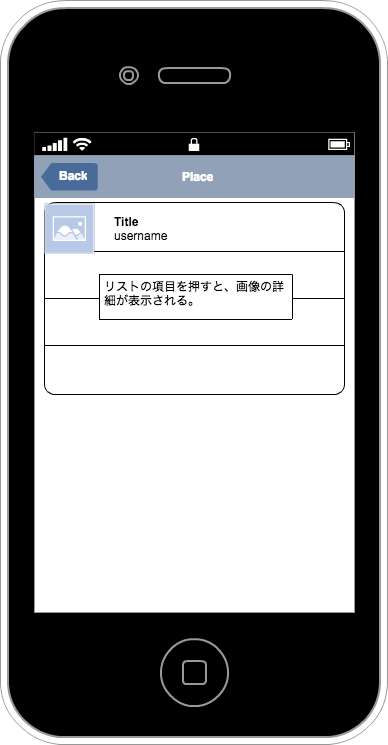
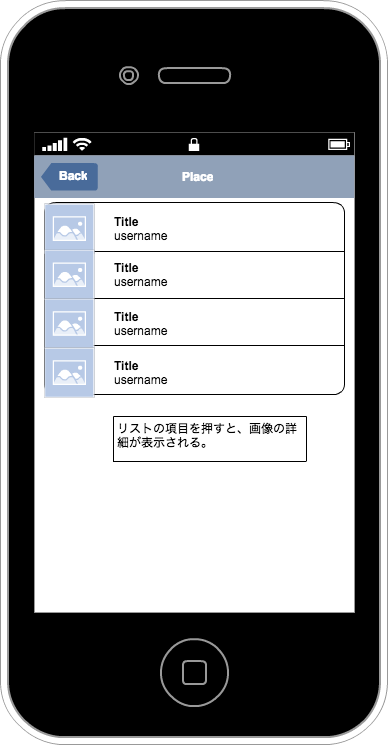
implemented Flickr.authorize() and Flickr.getPhotosForLocation()

Changed region(s): [[0.0928, 0.3396, 0.7423, 0.5557], [0.2784, 0.5557, 0.7732, 0.6174]]

diff --git a/Spica/Flickr.swift b/Spica/Flickr.swift
@@ -1,0 +1,105 @@
+//
+//  Flickr.swift
+//  Spica
+//
+//  Created by Suita Fujino on 2016/09/28.
+//  Copyright © 2016年 ARTE Co., Ltd. All rights reserved.
+//
+
+import Foundation
+import OAuthSwift
+
+class Flickr {
+    private let apiURL = "https://api.flickr.com/services/rest"
+    
+    private struct OAuthToken {
+        let token : String
+        let secret : String
+    }
+    
+    private struct OAuthParams {
+        let consumerKey : String
+        let consumerSecret: String
+        let requestTokenURL = "https://www.flickr.com/services/oauth/request_token"
+        let authorizeURL = "https://www.flickr.com/services/oauth/authorize"
+        let accessTokenURL = "https://www.flickr.com/services/oauth/access_token"
+        
+        init? () {
+            // temporarily loading from .txt file
+            guard let path = Bundle.main.path(forResource: "key", ofType: "txt") else { return nil }
+            var str : [String] = []
+            do {
+                let text = try NSString(contentsOfFile: path, encoding: String.Encoding.utf8.rawValue)
+                text.enumerateLines { (line, ptr) in
+                    str.append(line)
+                }
+                consumerKey = str[0]
+                consumerSecret = str[1]
+            } catch (let error) {
+                consumerKey = ""
+                consumerSecret = ""
+                print(error)
+                return nil
+            }
+        }
+    }
+    
+    
+    private let params = OAuthParams()
+    
+    private lazy var oauthSwift : OAuth1Swift? = {
+        guard let par = self.params else { return nil }
+        return OAuth1Swift(
+            consumerKey: par.consumerKey,
+            consumerSecret: par.consumerSecret,
+            requestTokenUrl: par.requestTokenURL,
+            authorizeUrl: par.authorizeURL,
+            accessTokenUrl: par.accessTokenURL
+        )
+    }()
+    
+    private var oauthToken : OAuthToken? = nil
+    
+    
+    func authorize() -> Bool {
+        var succeeded = false
+        oauthSwift?.authorizeWithCallbackURL(
+            URL(string: "Spica://oauth-callback/flickr")!,
+            success: { credential, response, parameters in
+                self.oauthToken = OAuthToken(token: credential.oauth_token, secret: credential.oauth_token_secret)
+                succeeded = true
+            },
+            failure: { error in
+                print(error.localizedDescription)
+            }
+        )
+        
+        return succeeded
+    }
+    
+    func getPhotosForLocation(latitude: Double, longitude: Double, accuracy: Int) {
+        guard let par = params else { fatalError("params is nil.") }
+        guard let oauth = oauthSwift else { fatalError("oauthSwift is nil.") }
+        
+        _ = oauth.client.get(apiURL,
+            parameters: [
+                "api_key"  : par.consumerKey,
+                "lat"      : latitude,
+                "lon"      : longitude,
+                "format"   : "json",
+                "accuracy" : accuracy,
+                "method"   : "flickr.photos.search"
+            ],
+            headers: nil,
+            success: { (data, response) in
+                let dataString = String(data: data, encoding: String.Encoding.utf8)
+                print(dataString)
+            },
+            failure: { error in
+                print(error)
+            }
+        )
+    
+    }
+    
+}

diff --git a/Spica/AppDelegate.swift b/Spica/AppDelegate.swift
@@ -7,6 +7,7 @@
 //
 
 import UIKit
+import OAuthSwift
 
 @UIApplicationMain
 class AppDelegate: UIResponder, UIApplicationDelegate {
@@ -15,7 +16,15 @@ class AppDelegate: UIResponder, UIApplicationDelegate {
 
 
     func application(_ application: UIApplication, didFinishLaunchingWithOptions launchOptions: [UIApplicationLaunchOptionsKey: Any]?) -> Bool {
-        // Override point for customization after application launch.
+        
+        return true
+    }
+    
+    func application(_ app: UIApplication, open url: URL, options: [UIApplicationOpenURLOptionsKey : Any] = [:]) -> Bool {
+        if (url.host == "oauth-callback") {
+            OAuthSwift.handleOpenURL(url)
+        }
+        
         return true
     }
 

diff --git a/Spica/MapViewController.swift b/Spica/MapViewController.swift
@@ -17,10 +17,15 @@ class MapViewController: UIViewController, MKMapViewDelegate {
         }
     }
     
+    @IBAction func search(_ sender: UIButton) {
+        fl.getPhotosForLocation(latitude: 35.0, longitude: 135.0, accuracy: 10)
+    }
+    
+    var fl = Flickr()
 
     override func viewDidLoad() {
         super.viewDidLoad()
-
+        fl.authorize()
         // Do any additional setup after loading the view.
     }
 
